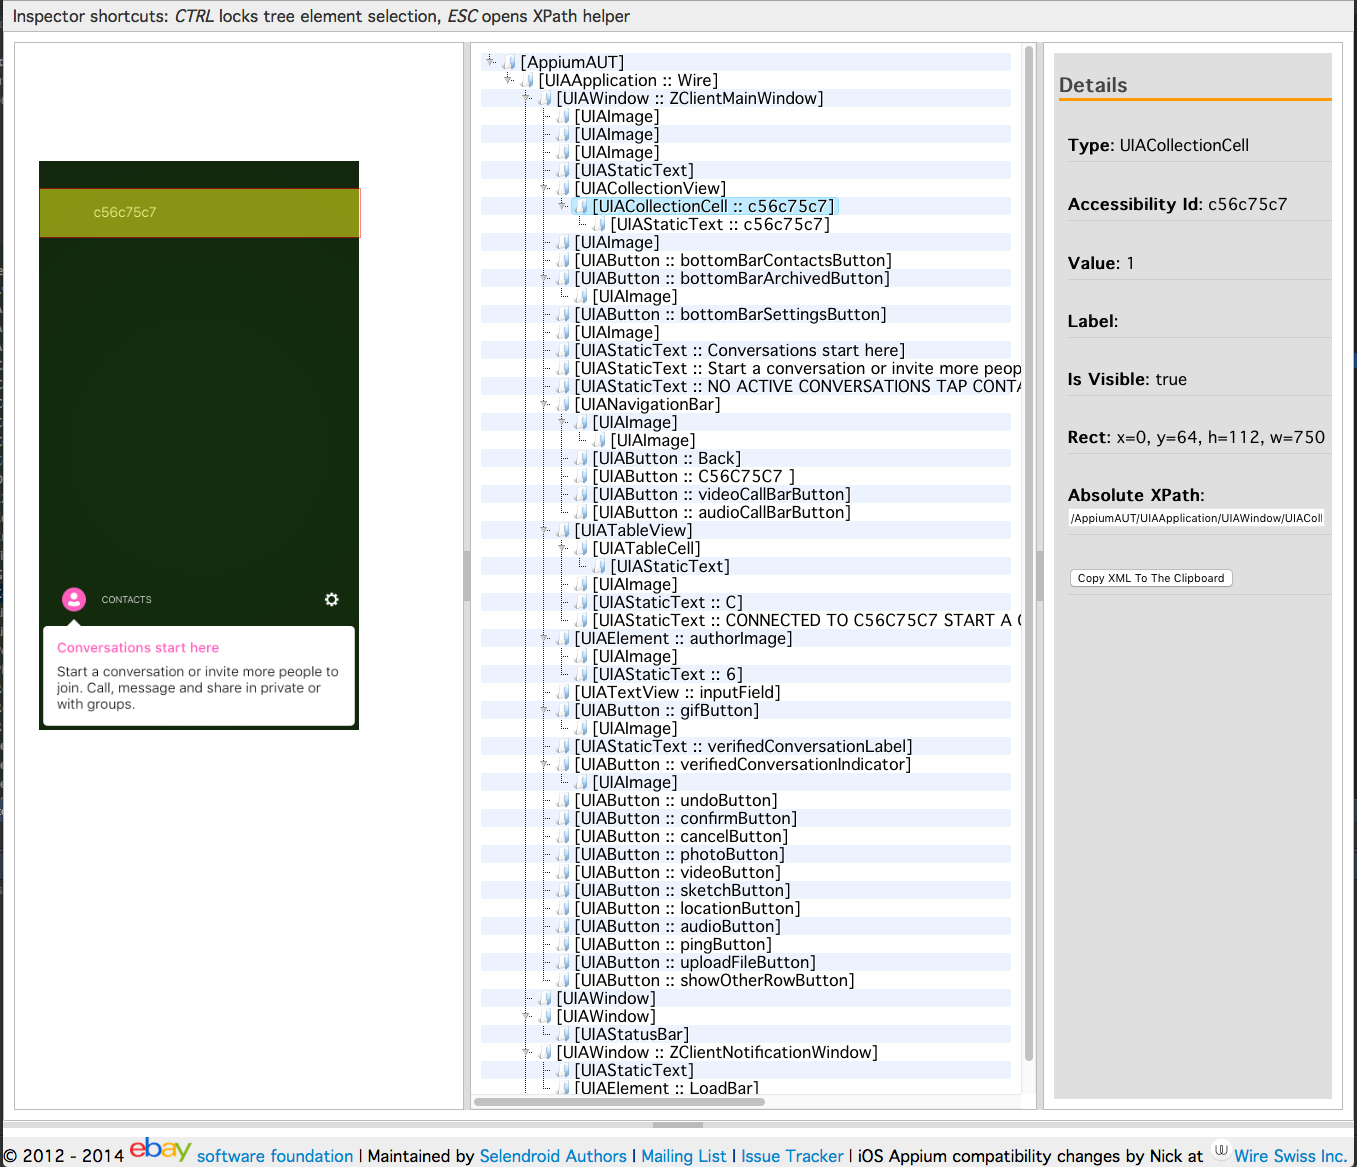
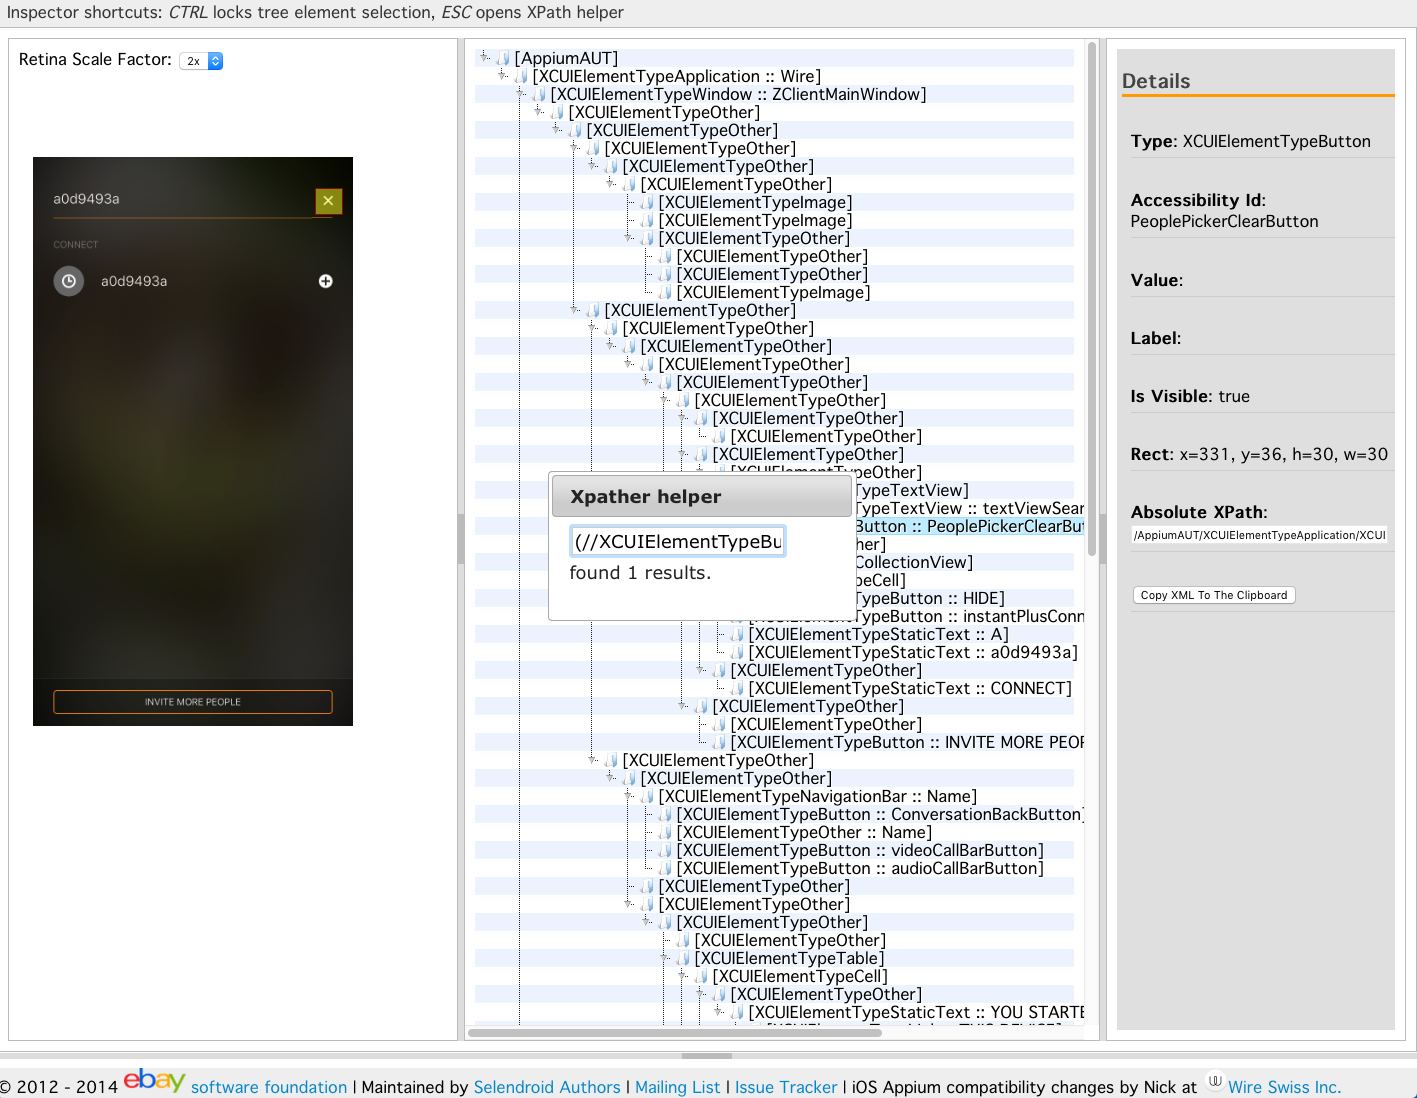
Update screenshot and readme

Changed region(s): [[0.0, 0.0, 1.0, 1.0]]

diff --git a/README.md b/README.md
@@ -10,7 +10,7 @@ The tool for iOS elements location. It is based on the original source of [Selen
 Usage
 -----
 
-Execute your iOS test using [Appium](http://appium.io) (by default it is expected to listen on http://localhost:4723) and set a breakpoint where you want to investigate the UI tree. Open/refresh iOS Inspector.html web page in your favourite web browser, wait for a while until the data is loaded and you are ready to go. The inspector currently supports showing of element attributes, element location by XPath and, naturally, two-way visual elements location using a screenshot and the UI tree.
+Execute your iOS test using [Appium](http://appium.io) (by default it is expected to listen on http://localhost:4723) and set a breakpoint where you want to investigate the UI tree. Open/refresh iOS Inspector.html web page in your favourite web browser, wait for a while until the data is loaded and you are ready to go. The inspector currently supports showing of element attributes, element location by XPath, dynamic setting of retina scale factor and, naturally, two-way visual elements location using a screenshot and the UI tree.
 
 Note: The Accessibility Id property can be presented as @name attribute in XPath expessions.
 
